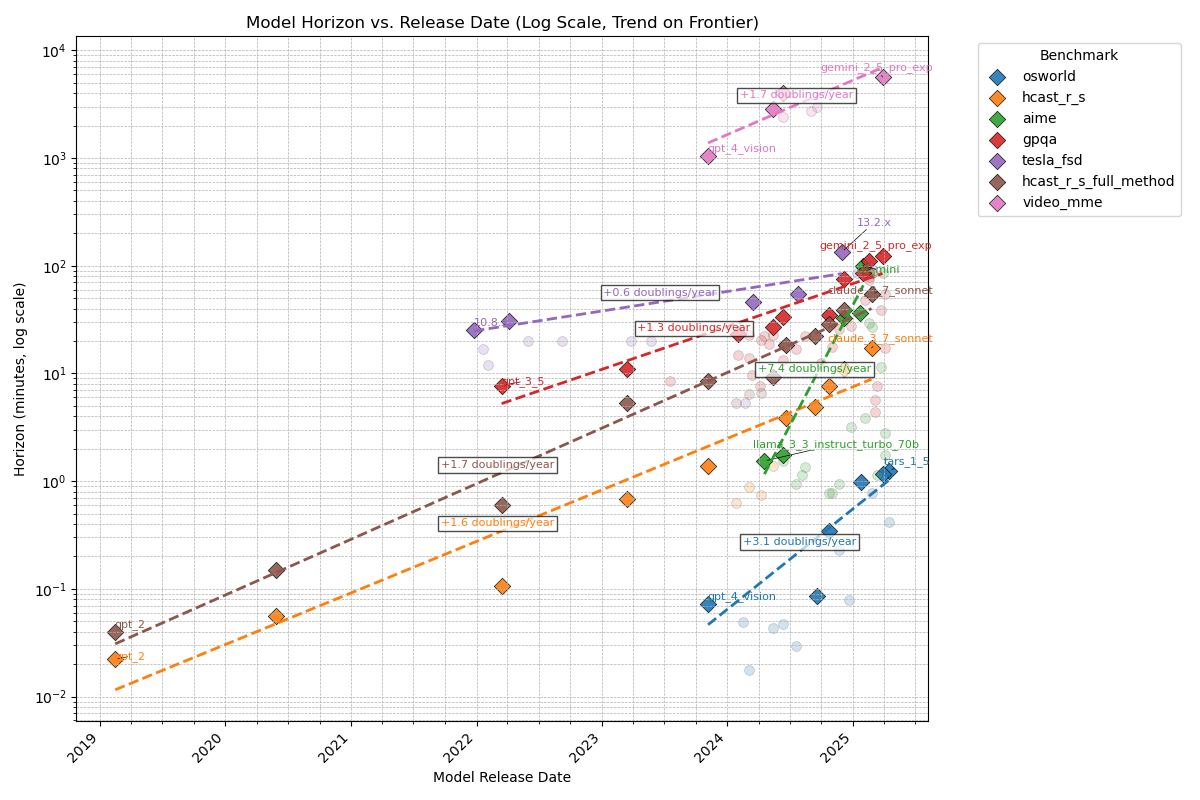
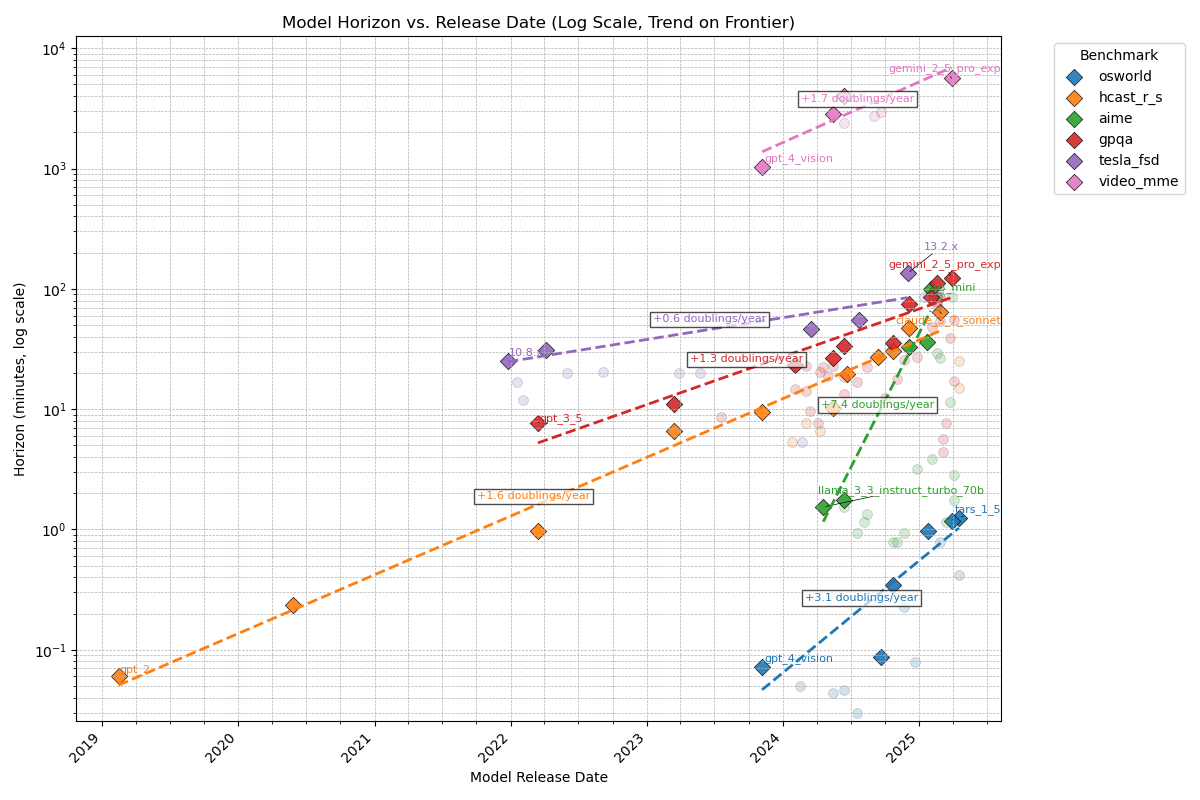
update hcast methodology (use unweighted)

Changed region(s): [[0.0308, 0.0, 0.9867, 1.0]]

diff --git a/hcast_r_s.py b/hcast_r_s.py
@@ -7,7 +7,7 @@ import json
 # Define paths
 source_dir = Path("data/hcast_r_s")
 source_horizons_file = source_dir / "horizons_raw.csv"
-source_task_len_file = Path("data/raw/hcast_r_s_filtered_runs.jsonl")
+source_runs_file = Path("data/raw/hcast_r_s_filtered_runs.jsonl")
 
 output_dir = Path("data/horizons")
 output_full_horizons_file = output_dir / "hcast_r_s_full_method.csv"
@@ -38,13 +38,17 @@ name_mapping = {
     "human": "human",
     "o1": "openai_o1",
     "o1-preview": "openai_o1_preview",
+    "o3": "openai_o3",
+    "o4-mini": "openai_o4_mini",
 }
 
 # Read the raw CSV
 df_raw = pd.read_csv(source_horizons_file)
 
+
+print(df_raw.columns)
 # Select and rename columns
-df_processed = df_raw[["agent", "p50", "average"]].copy()
+df_processed = df_raw[["agent", "p50"]].copy()
 df_processed.rename(columns={"agent": "model", "p50": "horizon"}, inplace=True)
 
 # Apply the name mapping
@@ -68,24 +72,45 @@ df_processed["horizon"] = pd.to_numeric(df_processed["horizon"])
 # Write the processed data to the new CSV
 df_processed[["model", "horizon"]].to_csv(output_full_horizons_file, index=False)
 
-scores_str = '\n'.join([f'{r["model"]} = "{r["average"]:.2%}"' for i, r in df_processed.iterrows()])
+
+def make_scores_toml(df_runs):
+    df_scores = df_runs.copy()
+    df_scores["success_weight"] = df_scores["equal_task_weight"] * df_scores["score_binarized"]
+    df_scores["total_weight"] = df_scores["equal_task_weight"]
+
+    df_scores = df_scores[df_scores["alias"] != "human"]
+
+    df_scores = df_scores.groupby("alias").agg({
+        "success_weight": "sum",
+        "total_weight": "sum",
+    })
+
+    df_scores["average"] = df_scores["success_weight"] / df_scores["total_weight"]
+
+    df_scores["model"] = df_scores.index.map(name_mapping)
+
+    print(df_scores)
+
+    scores_str = '\n'.join([f'{r["model"]} = "{r["average"]:.2%}"' for i, r in df_scores.iterrows()])
 
 
-scores_toml = f"""
-source = "metr"
+    scores_toml = f"""source = "metr"
 
 [scores]
 {scores_str}
-"""
+    """
+    return scores_toml
 
+df_runs = pd.read_json(source_runs_file, lines=True)
+
+scores_toml = make_scores_toml(df_runs)
 with open(output_scores_file, "w") as f:
     f.write(scores_toml)
 
 print(f"Successfully processed '{source_horizons_file}' and saved to '{output_full_horizons_file}'")
 
-df_task_len = pd.read_json(source_task_len_file, lines=True)
 
-first_every_task = df_task_len.groupby("task_id").first().reset_index()["human_minutes"]
+first_every_task = df_runs.groupby("task_id").first().reset_index()["human_minutes"]
 
 print(f"Number of tasks: {len(first_every_task)}")
 

diff --git a/plots.py b/plots.py
@@ -61,7 +61,7 @@ def plot_horizons(df, sorted_models):
     plt.close() # Close the plot to free memory
 
 
-def plot_lines_over_time(df, output_file, show_benchmarks=None):
+def plot_lines_over_time(df, output_file, show_benchmarks=None, hide_benchmarks=None):
     """Generates and saves a scatter plot of horizon vs. release date with trendlines fitted in log space to frontier models."""
     if df.empty:
         print("No data loaded for lines over time plot.")
@@ -107,9 +107,13 @@ def plot_lines_over_time(df, output_file, show_benchmarks=None):
 
     texts = [] # Initialize list to store text objects for adjustText
 
+
+    if hide_benchmarks:
+        benchmarks = [bench for bench in benchmarks if bench not in hide_benchmarks]
+    if show_benchmarks:
+        benchmarks = [bench for bench in benchmarks if bench in show_benchmarks]
+
     for bench in benchmarks:
-        if show_benchmarks and bench not in show_benchmarks:
-            continue
         bench_data = plot_df[plot_df['benchmark'] == bench]
         color = benchmark_colors[bench]
         frontier_data = bench_data[bench_data['is_frontier']]
@@ -257,7 +261,7 @@ def main():
 
     # --- Lines Over Time Plot ---
     # Generate and save the lines over time plot using the original loaded data
-    plot_lines_over_time(all_df.copy(), LINES_PLOT_OUTPUT_FILE) # Use copy
+    plot_lines_over_time(all_df.copy(), LINES_PLOT_OUTPUT_FILE, hide_benchmarks=["hcast_r_s_full_method"]) # Use copy
     plot_lines_over_time(all_df.copy(), "plots/hcast_comparison.png", show_benchmarks=["hcast_r_s", "hcast_r_s_full_method"])
 
 if __name__ == "__main__":
